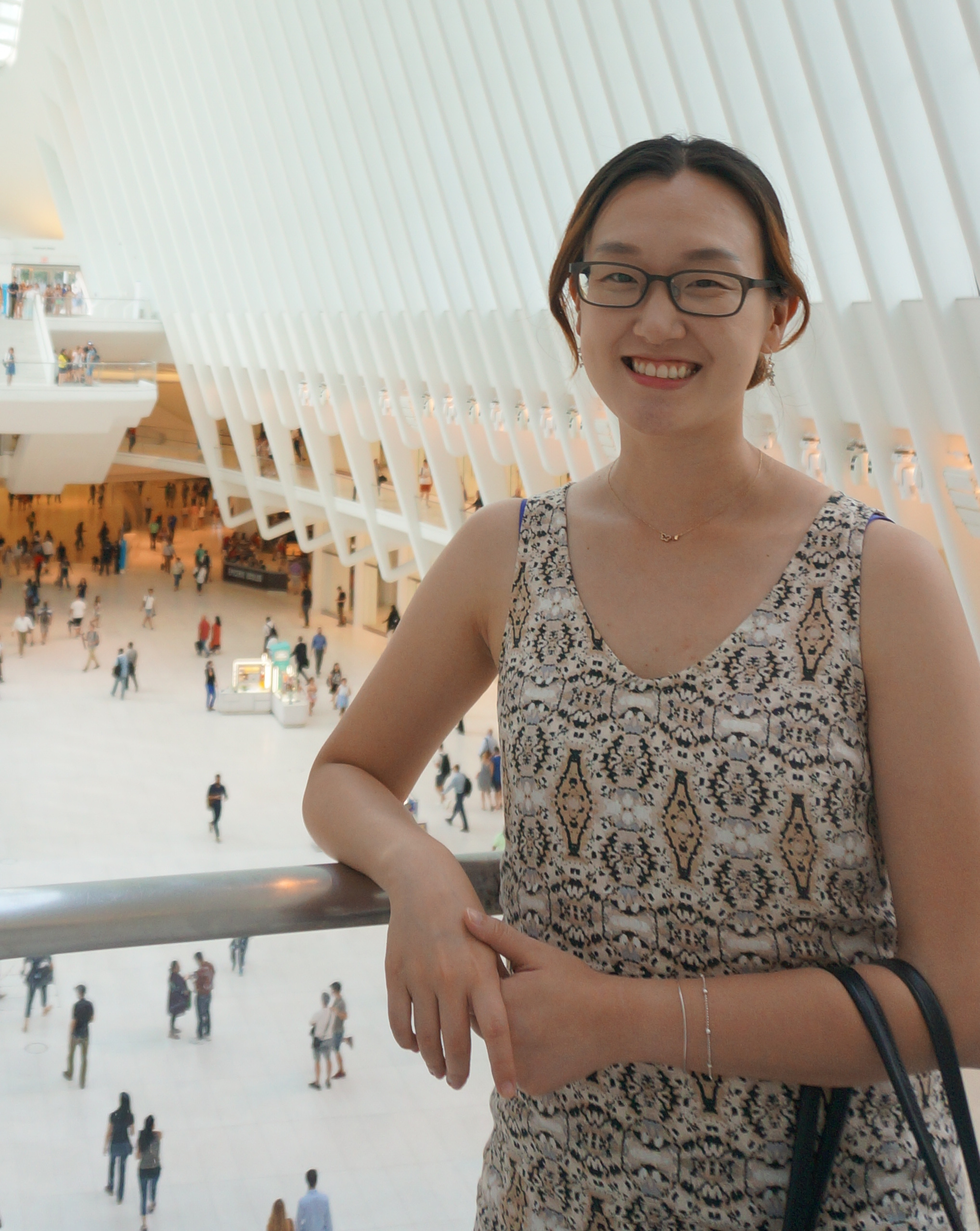
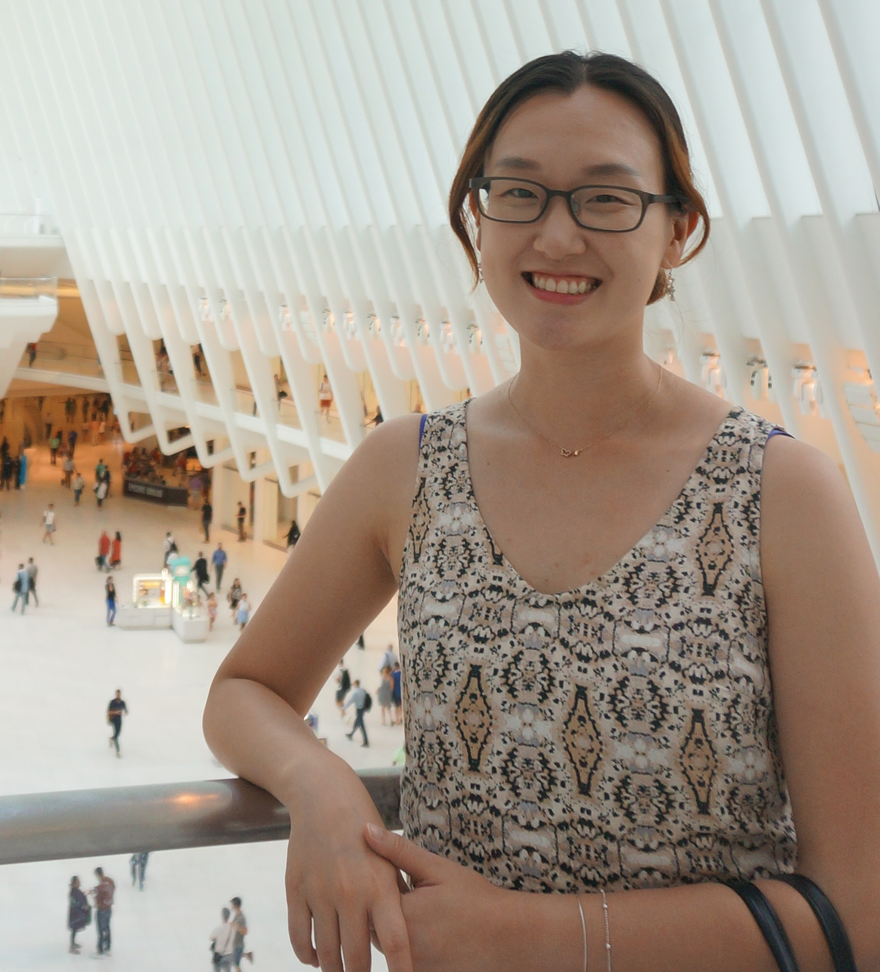
photo change try

diff --git a/index.html b/index.html
@@ -9,7 +9,7 @@ layout: default
 <h1>Welcome</h1>
 
 <p>	
-<img src="https://github.com/minsuc/minsuc.github.io/raw/master/webphoto2.jpg" alt="Minsu Chang" style="float:left;margin:7px 15px 0 0;width:300px"> 
+<img src="https://github.com/minsuc/minsuc.github.io/raw/master/webphoto2.JPG" alt="Minsu Chang" style="float:left;margin:7px 15px 0 0;width:300px"> 
 <font size ="4">I am a PhD candidate in Economics at the University of Pennsylvania.</p>
 
 <p>I am interested in Bayesian econometrics and heterogeneous agent macroeconomic models.</p></font>
